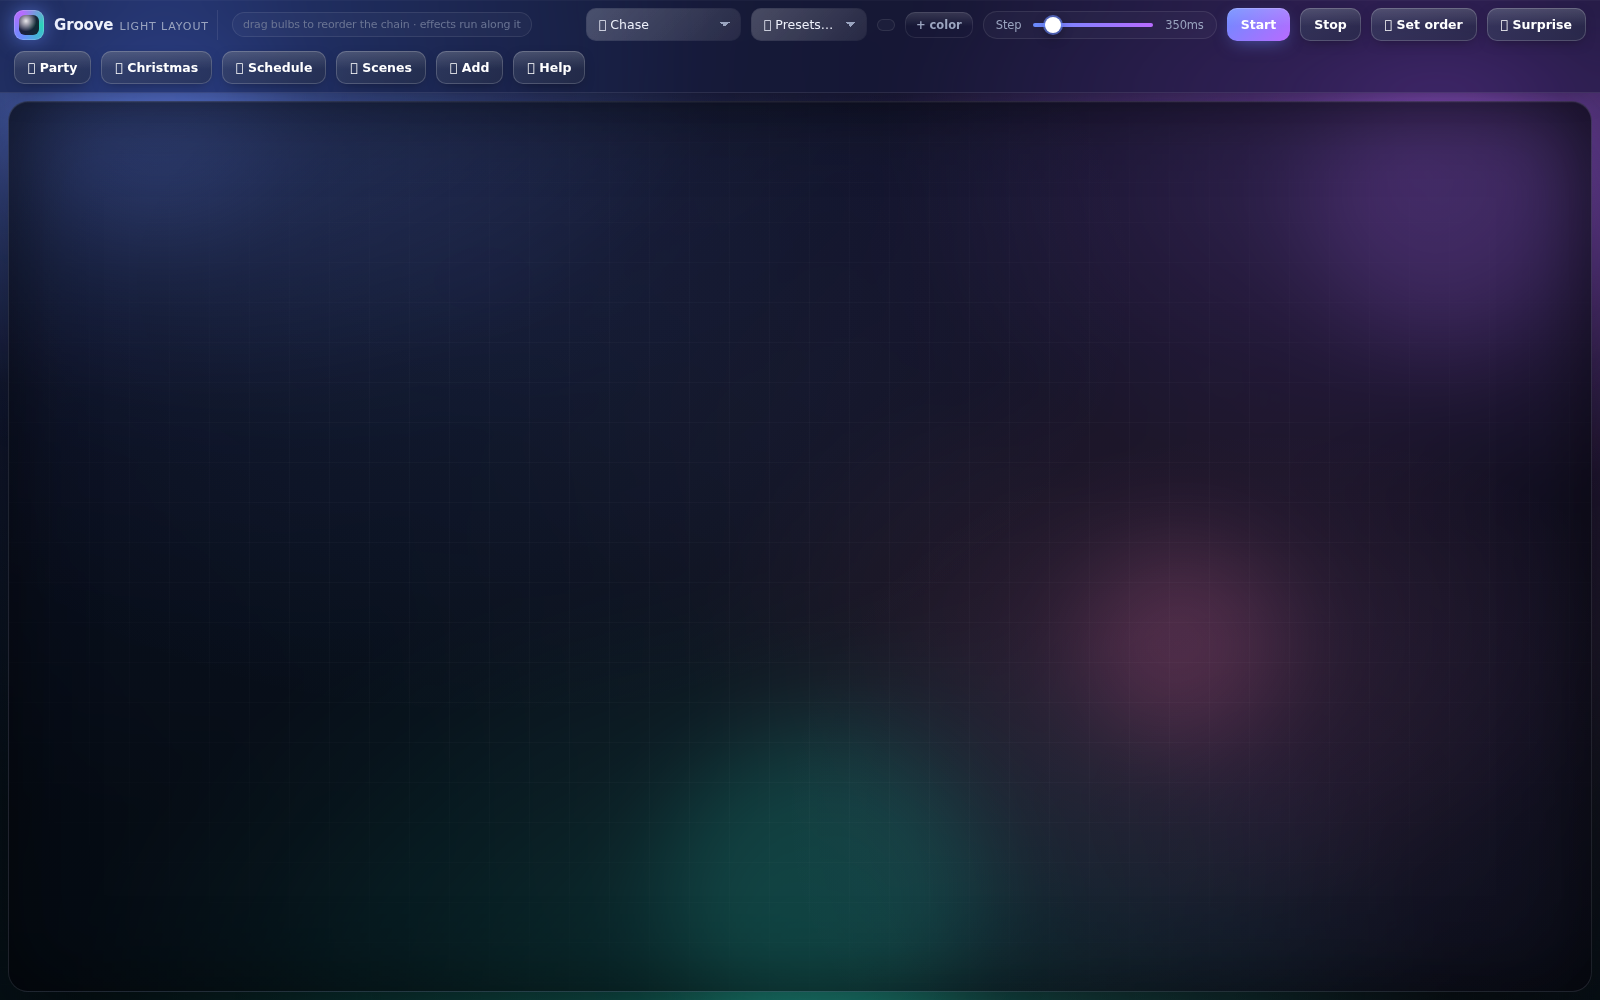
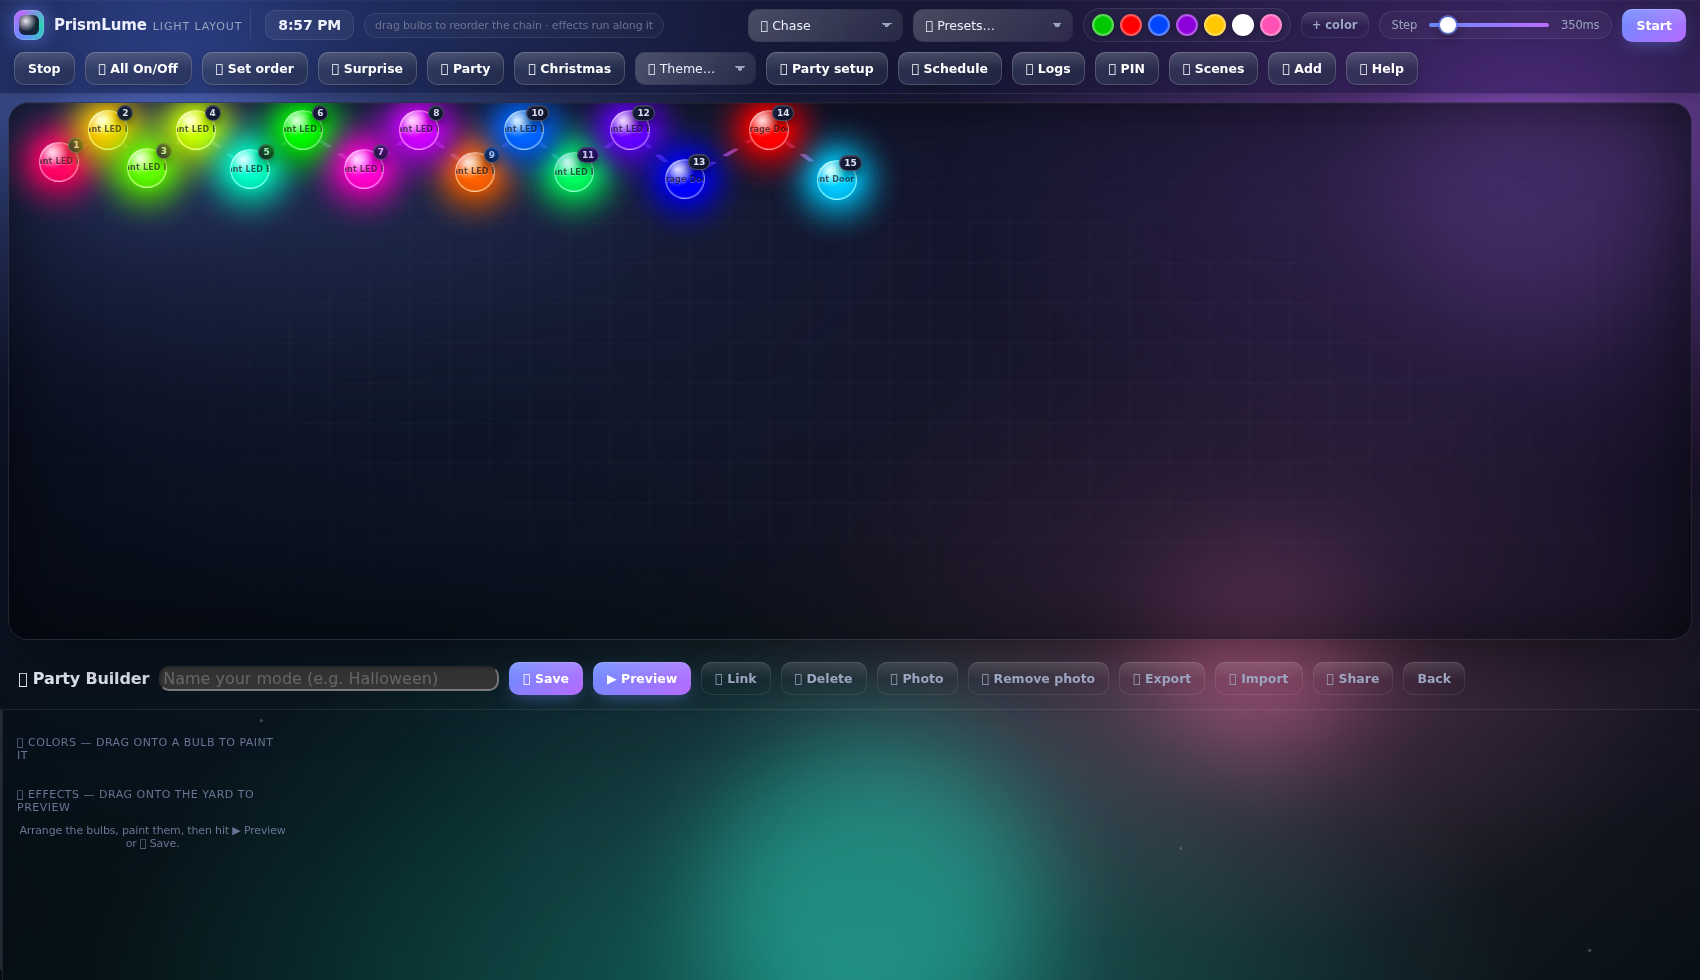
v2.19.2: scan progress bar + fresh screenshots (bulbs lit in distinct colors)

diff --git a/layout.html b/layout.html
@@ -576,6 +576,11 @@
   .empty-onboard p{ margin:0; font-size:13.5px; line-height:1.6; color:var(--ink-dim); }
   .empty-onboard .emoji{ font-size:36px; display:block; opacity:0.85; }
   .empty-onboard b{ color:var(--ink); }
+  .scan-progress{ width:100%; margin:12px 0 4px; }
+  .scan-bar{ width:100%; height:8px; background:rgba(255,255,255,0.08); border-radius:6px; overflow:hidden; }
+  .scan-fill{ height:100%; width:40%; border-radius:6px; background:linear-gradient(90deg,#6b8cff,#b86bff,#2ad3b9); animation:scanSlide 1.1s ease-in-out infinite; }
+  .scan-label{ font-size:12px; color:var(--ink-dim); margin-top:7px; text-align:center; }
+  @keyframes scanSlide{ 0%{ margin-left:-45%; } 100%{ margin-left:105%; } }
 
   /* update banner */
   #updateBanner{
@@ -1105,7 +1110,7 @@ async function clearPin(){
 }
 async function scanNew(){
   const list = document.getElementById('addList');
-  list.innerHTML = '<div class="empty"><span class="emoji">📡</span>Scanning…</div>';
+  list.innerHTML = '<div class="scan-progress"><div class="scan-bar"><div class="scan-fill"></div></div><div class="scan-label">Scanning your network for bulbs…</div></div>';
   try{
     const devs = await (await fetch('/api/lan/devices')).json();
     const known = new Set(Object.keys(devs));

diff --git a/setup.html b/setup.html
@@ -242,6 +242,11 @@
     button{ min-height:46px; padding:12px 18px; }
     input[type=text]{ padding:14px; }
   }
+.scan-progress{ width:100%; margin:12px 0 4px; }
+.scan-bar{ width:100%; height:8px; background:rgba(255,255,255,0.08); border-radius:6px; overflow:hidden; }
+.scan-fill{ height:100%; width:40%; border-radius:6px; background:linear-gradient(90deg,#6b8cff,#b86bff,#2ad3b9); animation:scanSlide 1.1s ease-in-out infinite; }
+.scan-label{ font-size:12px; color:#9aa3b8; margin-top:7px; text-align:center; }
+@keyframes scanSlide{ 0%{ margin-left:-45%; } 100%{ margin-left:105%; } }
 </style>
 </head>
 <body>
@@ -281,7 +286,7 @@
 <script>
 let found = {};
 async function scan(){
-  document.getElementById('found').innerHTML = '<span class="ok">Scanning your network…</span>';
+  document.getElementById('found').innerHTML = '<div class="scan-progress"><div class="scan-bar"><div class="scan-fill"></div></div><div class="scan-label">Scanning your network for bulbs…</div></div>';
   const btn = document.getElementById('scanBtn');
   btn.disabled = true; btn.textContent = 'Scanning…';
   try{

diff --git a/app.py b/app.py
@@ -19,7 +19,7 @@ from flask import Flask, jsonify, request, session, render_template_string
 app = Flask(__name__)
 
 API_BASE = "https://developer-api.govee.com"
-VERSION = "2.19.1"
+VERSION = "2.19.2"
 BUILD_DATE = "2026-11-25"
 
 # config/data dir vs bundled resource dir (PyInstaller onefile + Docker friendly)
